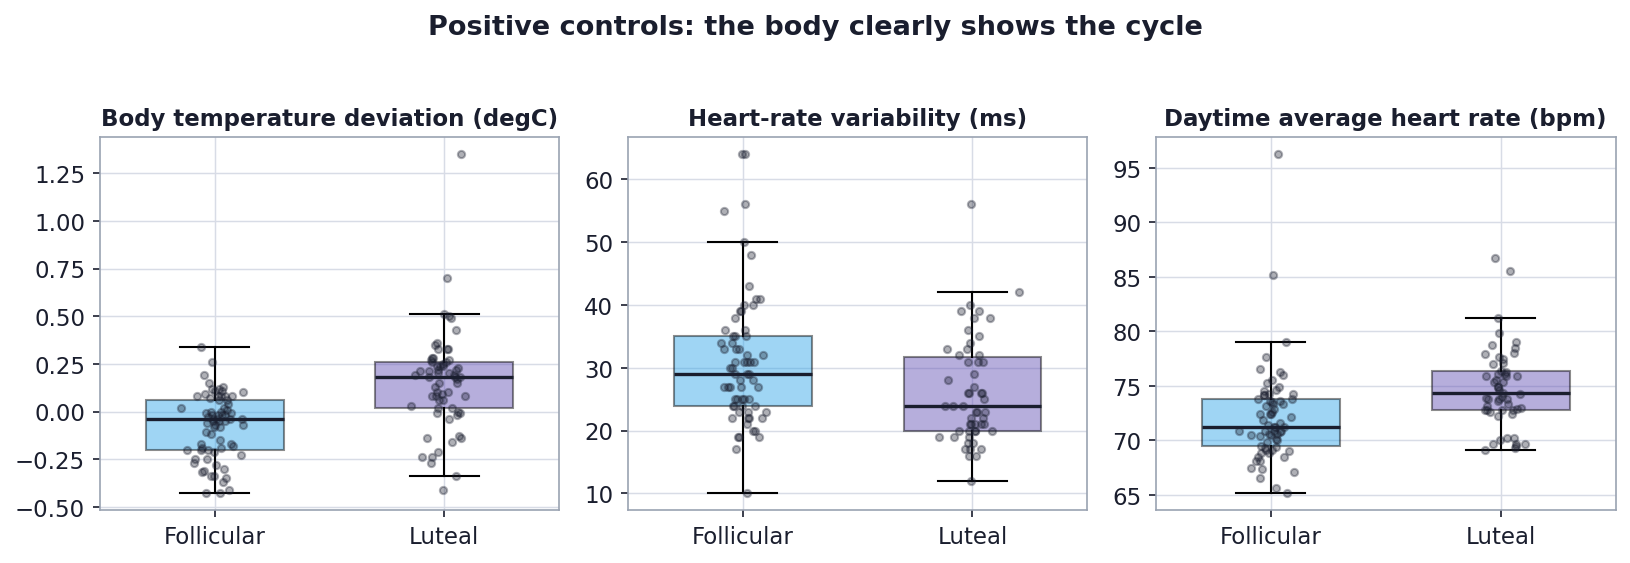
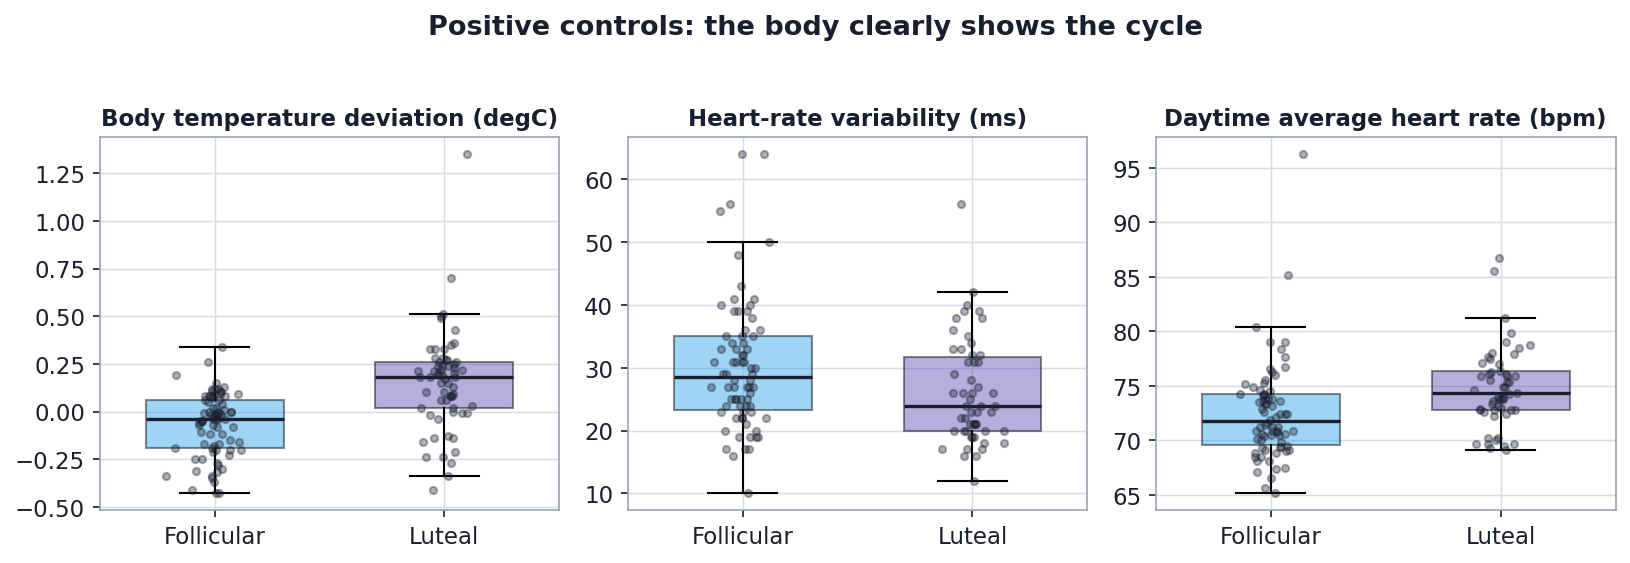
chore(analysis): finalize voice-cycle outputs under corrected 7-cycle calendar
Regenerate positive-control and phase-contrast figures/tables after the cycle
calendar was rebuilt from Oura period tags (now 7 cycles, 57 phase-labeled
voice days). Renumber the vowel-drift figure to fig12 to free fig11 for the HNR
residualization figure, and fix its references in the diagnostic doc. Add an
Analysis .gitignore (ignore __pycache__, .venv, local archive/) and drop the
previously tracked bytecode.

diff --git a/Analysis/src/analysis/vowel_drift.py b/Analysis/src/analysis/vowel_drift.py
@@ -197,5 +197,5 @@ if __name__ == "__main__":
 
     pd.DataFrame([summary.__dict__]).to_json(paths.outputs_dir / "tables" / "vowel_drift_summary.json",
                                              indent=2)
-    p = fig_vowel_drift(data, summary, paths.figures_dir / "fig11_vowel_drift.png")
+    p = fig_vowel_drift(data, summary, paths.figures_dir / "fig12_vowel_drift.png")
     print("figure:", p)

diff --git a/Analysis/VOWEL_DRIFT_DIAGNOSTIC.md b/Analysis/VOWEL_DRIFT_DIAGNOSTIC.md
@@ -15,7 +15,7 @@
 - **The result:** the vowel change is **real but early** - a clean regime shift in F1/F2/F3 that a changepoint scan dates to **~26 November 2025**. Only **2 phase-labeled days** fall before that settle date (both in lopsided early cycles that the phase analysis excludes anyway), and **0** hormone days do. Inside the hormone window (Jan 22 - Mar 25) the **formants are flat** (F1 rho -0.15, F2 +0.06, F3 +0.13, all n.s.) while **F0 drifts hard** (rho **-0.78**). Controlling F0 for the formants does **nothing** (F0~date -0.40 -> -0.35; F0~estrogen +0.53 -> +0.60). Only controlling for **time** removes it (F0~estrogen +0.53 -> **+0.09**).
 - **Conclusion:** the vowel change is a **red herring** for the cycle result. It settled before the hormones were measured, and the F0 drift is independent of it. The main report's date-control is the correct fix; formant-residualization would not have helped (and would have slightly *strengthened* the spurious pitch-estrogen link).
 
-![Vowel-change diagnostic](outputs/figures/fig11_vowel_drift.png)
+![Vowel-change diagnostic](outputs/figures/fig12_vowel_drift.png)
 
 ---
 
@@ -105,4 +105,4 @@ python -m src.analysis.vowel_drift
 - Diagnostic (computation + figure): `src/analysis/vowel_drift.py`
 - Residualization helper (shared): `src/analysis/residualize.py`
 - Summary table: `outputs/tables/vowel_drift_summary.json`
-- Figure: `outputs/figures/fig11_vowel_drift.png`
+- Figure: `outputs/figures/fig12_vowel_drift.png`